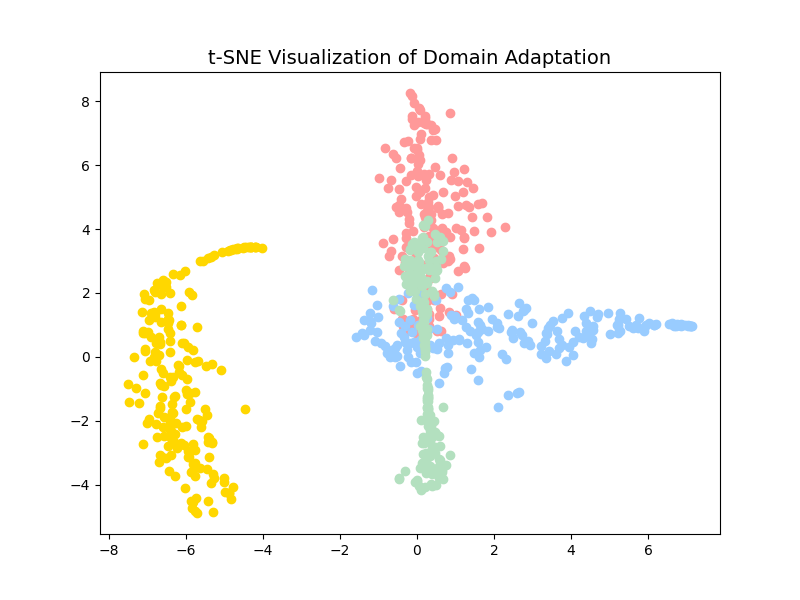
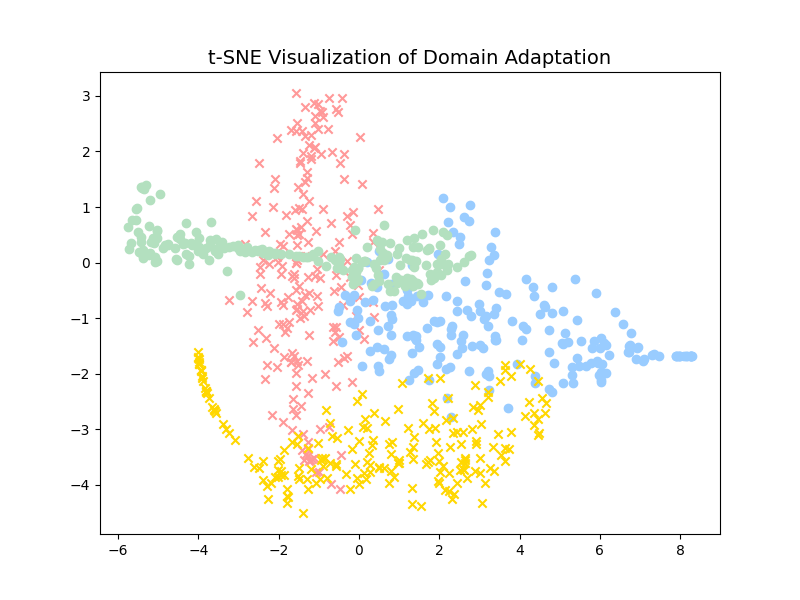
update 0208

diff --git a/HierarchicalTransformer_outdomain_3dloss.py b/HierarchicalTransformer_outdomain_3dloss.py
@@ -1604,6 +1604,20 @@ if __name__ == '__main__':
     trainer = DgMSTF_Trainer(random_seed=10086, log_dir=logDir, suffix=f"{test_event_name}_FS{fewShotCnt}",model_file=f"../../autodl-tmp/pkl/GpDANN/DgMSTF_{test_event_name}_FS{fewShotCnt}.pkl", domain_num=7,class_num=2, temperature=0.05, learning_rate=5e-5, batch_size=32, epsilon_ball=5e-6,gStep=5, Lambda=0.1, G_lr = 5e-6, D_lr=2e-4, valid_every=10, dStep=5) 
     bert_config = BertConfig.from_pretrained(bertPath,num_labels = 2)
     model_device = torch.device("cuda") if torch.cuda.is_available() else torch.device("cpu")
+    discriminator = DomainDiscriminator(hidden_size=bert_config.hidden_size,
+                                        model_device = model_device,
+                                        learningRate=2e-5,
+                                        domain_num=7)
+    trainer.domain_discriminator = discriminator
+    print("being domain discriminate!")
+    if os.path.exists(f"../../autodl-tmp/pkl/GpDANN/DomainDiscriminator_{test_event_name}.pkl"):
+        trainer.domain_discriminator.load_state_dict(
+            torch.load(f"../../autodl-tmp/pkl/GpDANN/DomainDiscriminator_{test_event_name}.pkl")
+        )
+    else:
+        for epoch in range(2):
+            trainer.optimizeDiscriminator(model, source_domain, unlabeled_target, max_step=500)
+        torch.save(trainer.domain_discriminator.state_dict(), f"../../autodl-tmp/pkl/GpDANN/DomainDiscriminator_{test_event_name}.pkl")
     trainer.PseudoLabeling(model, unlabeled_target)
     trainer.Selection(unlabeled_target)
     params = torch.cat([param.view(-1) for param in model.parameters()]).detach().cpu().numpy()
@@ -1619,6 +1633,8 @@ if __name__ == '__main__':
                                 source_ratio=trainer.train_mix_ratio,
                                 reshuffle=True):
         print("step:",step)
+        if step%trainer.alternate_gap == 0:
+            trainer.domainAdverPerturb(model, source_domain, unlabeled_target)
 
         model_optim.zero_grad()
         losses = model.get_CrossEntropyLoss(batch)
@@ -1626,13 +1642,12 @@ if __name__ == '__main__':
         grad = torch.cat([param.grad.view(-1) for param in model.parameters()]).detach().cpu().numpy()
         gradients.append(grad)
         step += 1
-        if step >= 10:
+        if step >= 20:
             break
-    device = torch.device("cuda") if torch.cuda.is_available() else torch.device('cpu')
     pca = PCA(n_components=2)
     pca.fit(gradients)
-    direction1 = torch.tensor(pca.components_[0], dtype=torch.float32,device=device)
-    direction2 = torch.tensor(pca.components_[1], dtype=torch.float32,device=device)
+    direction1 = torch.tensor(pca.components_[0], dtype=torch.float32,device=model_device)
+    direction2 = torch.tensor(pca.components_[1], dtype=torch.float32,device=model_device)
 
     grid_size = 50
     alpha = np.linspace(-1, 1, grid_size)
@@ -1642,34 +1657,32 @@ if __name__ == '__main__':
     # 计算每个点的损失值
     loss_values = np.zeros((grid_size, grid_size))
     count = 0
+    torch.cuda.empty_cache()
     for batch in DgMSTF_Loader([source_domain], unlabeled_target,
-                                batch_size=trainer.max_batch_size,
+                                batch_size=32,
                                 source_ratio=trainer.train_mix_ratio,
                                 reshuffle=True):
         count += 1
+        trainer.domainAdverPerturb(model, source_domain, unlabeled_target)
         for i in range(grid_size):
             print("i:",i)
             for j in range(grid_size):
 
-                perturbed_params = torch.tensor(params, dtype=torch.float32,device=device) + alpha[i, j] * direction1 + beta[i, j] * direction2
+                perturbed_params = torch.tensor(params, dtype=torch.float32,device=model_device) + alpha[i, j] * direction1 + beta[i, j] * direction2
                 idx = 0
                 for param in model.parameters():
                     size = param.numel()
                     param.data = perturbed_params[idx:idx + size].view(param.size())
                     idx += size
-                loss_values[i,j] = model.get_CrossEntropyLoss(batch).item()
-        if count >1:
+                with torch.no_grad():
+                    loss_values[i,j] = model.get_CrossEntropyLoss(batch).item()/10
+                print("loss:",loss_values[i,j])
+        if count >=1:
             break
 
     # 绘制损失面
     fig = plt.figure(figsize=(10, 8))
     ax = fig.add_subplot(111, projection='3d')
-    ax.plot_surface(alpha, beta, loss_values, cmap='viridis', edgecolor='none')
-
-    ax.set_xlabel('PCA Direction 1')
-    ax.set_ylabel('PCA Direction 2')
-    ax.set_zlabel('Loss')
-    ax.set_title('Loss Surface Visualization with PCA Directions')
-    plt.save("loss.png")
-
+    ax.plot_surface(alpha, beta, loss_values, cmap='coolwarm', edgecolor='none')
+    plt.savefig("loss_sharp.png")
 

diff --git a/HierarchicalTransformer_outdomain_tsne.py b/HierarchicalTransformer_outdomain_tsne.py
@@ -1599,14 +1599,14 @@ if __name__ == '__main__':
         if source_domain.data[d_ID]['label'] == "rumours":
             source_pos.data[d_ID] = source_domain.data[d_ID]
             rumor_count += 1
-            if rumor_count >= 500:
+            if rumor_count >= 200:
                 break
                 
     for i,d_ID in enumerate(source_domain.data_ID):
         if source_domain.data[d_ID]['label'] != "rumours":
             source_neg.data[d_ID] = source_domain.data[d_ID]
             non_rumor_count += 1
-            if non_rumor_count >= 500:
+            if non_rumor_count >= 200:
                 break
     source_pos.dataclear()
     source_neg.dataclear()
@@ -1627,14 +1627,14 @@ if __name__ == '__main__':
         if label_data[d_ID] != "non-rumor":
             target_pos.data[d_ID] = unlabeled_target.data[d_ID]
             rumor_count += 1
-            if rumor_count >= 500:
+            if rumor_count >= 200:
                 break
                 
     for i,d_ID in enumerate(unlabeled_target.data_ID):
          if label_data[d_ID] == "non-rumor":
             target_neg.data[d_ID] = unlabeled_target.data[d_ID]
             non_rumor_count += 1
-            if non_rumor_count >= 500:
+            if non_rumor_count >= 200:
                 break
     target_pos.dataclear()
     target_neg.dataclear()
@@ -1671,16 +1671,16 @@ if __name__ == '__main__':
         
     
  
-    tsne = TSNE(n_components=2,random_state=100,perplexity =100,n_iter=1000)
+    tsne = TSNE(n_components=2,random_state=40,perplexity =100,n_iter=1000)
     all_feuture_tsne_0 = tsne.fit_transform(vec_list[0])
     plt.figure(figsize=(8, 6))
-    plt.scatter(all_feuture_tsne_0[:, 0], all_feuture_tsne_0[:, 1],c='#FF9999') #red
+    plt.scatter(all_feuture_tsne_0[:, 0], all_feuture_tsne_0[:, 1],c='#FF9999',marker='x') #red
     
     all_feuture_tsne_1 = tsne.fit_transform(vec_list[1])
     plt.scatter(all_feuture_tsne_1[:, 0], all_feuture_tsne_1[:, 1],c='#99CCFF') #blue
     
     all_feuture_tsne_2 = tsne.fit_transform(vec_list[2])
-    plt.scatter(all_feuture_tsne_2[:, 0], all_feuture_tsne_2[:, 1],c='#FFD700') #yellow
+    plt.scatter(all_feuture_tsne_2[:, 0], all_feuture_tsne_2[:, 1],c='#FFD700',marker='x') #yellow
     
     all_feuture_tsne_3 = tsne.fit_transform(vec_list[3])
     plt.scatter(all_feuture_tsne_3[:, 0], all_feuture_tsne_3[:, 1],c='#B3E0BF') #green

diff --git a/DomainAdaptationTrainer/DANN_out.py b/DomainAdaptationTrainer/DANN_out.py
@@ -760,7 +760,7 @@ if __name__ == '__main__':
                                         model_device = model_device,
                                         learningRate=5e-5,
                                         domain_num=7)
-#     model.load_model(f"../../../autodl-tmp/pkl/DANN/DANN_{test_event_name}_FS{fewShotCnt}.pkl")
+    model.load_model(f"../../../autodl-tmp/pkl/DANN/DANN_{test_event_name}_FS{fewShotCnt}.pkl")
     trainer.PreTrainDomainClassifier(model,discriminator,source_domain,labeled_target,unlabeled_target,maxEpoch = 3, learning_rate = 3e-6)
     
     trainer.ModelTrain(model,discriminator,source_domain,labeled_target,unlabeled_target,val_set,test_set,maxEpoch = 3,validEvery = 10,test_label=test_set.labelTensor())
